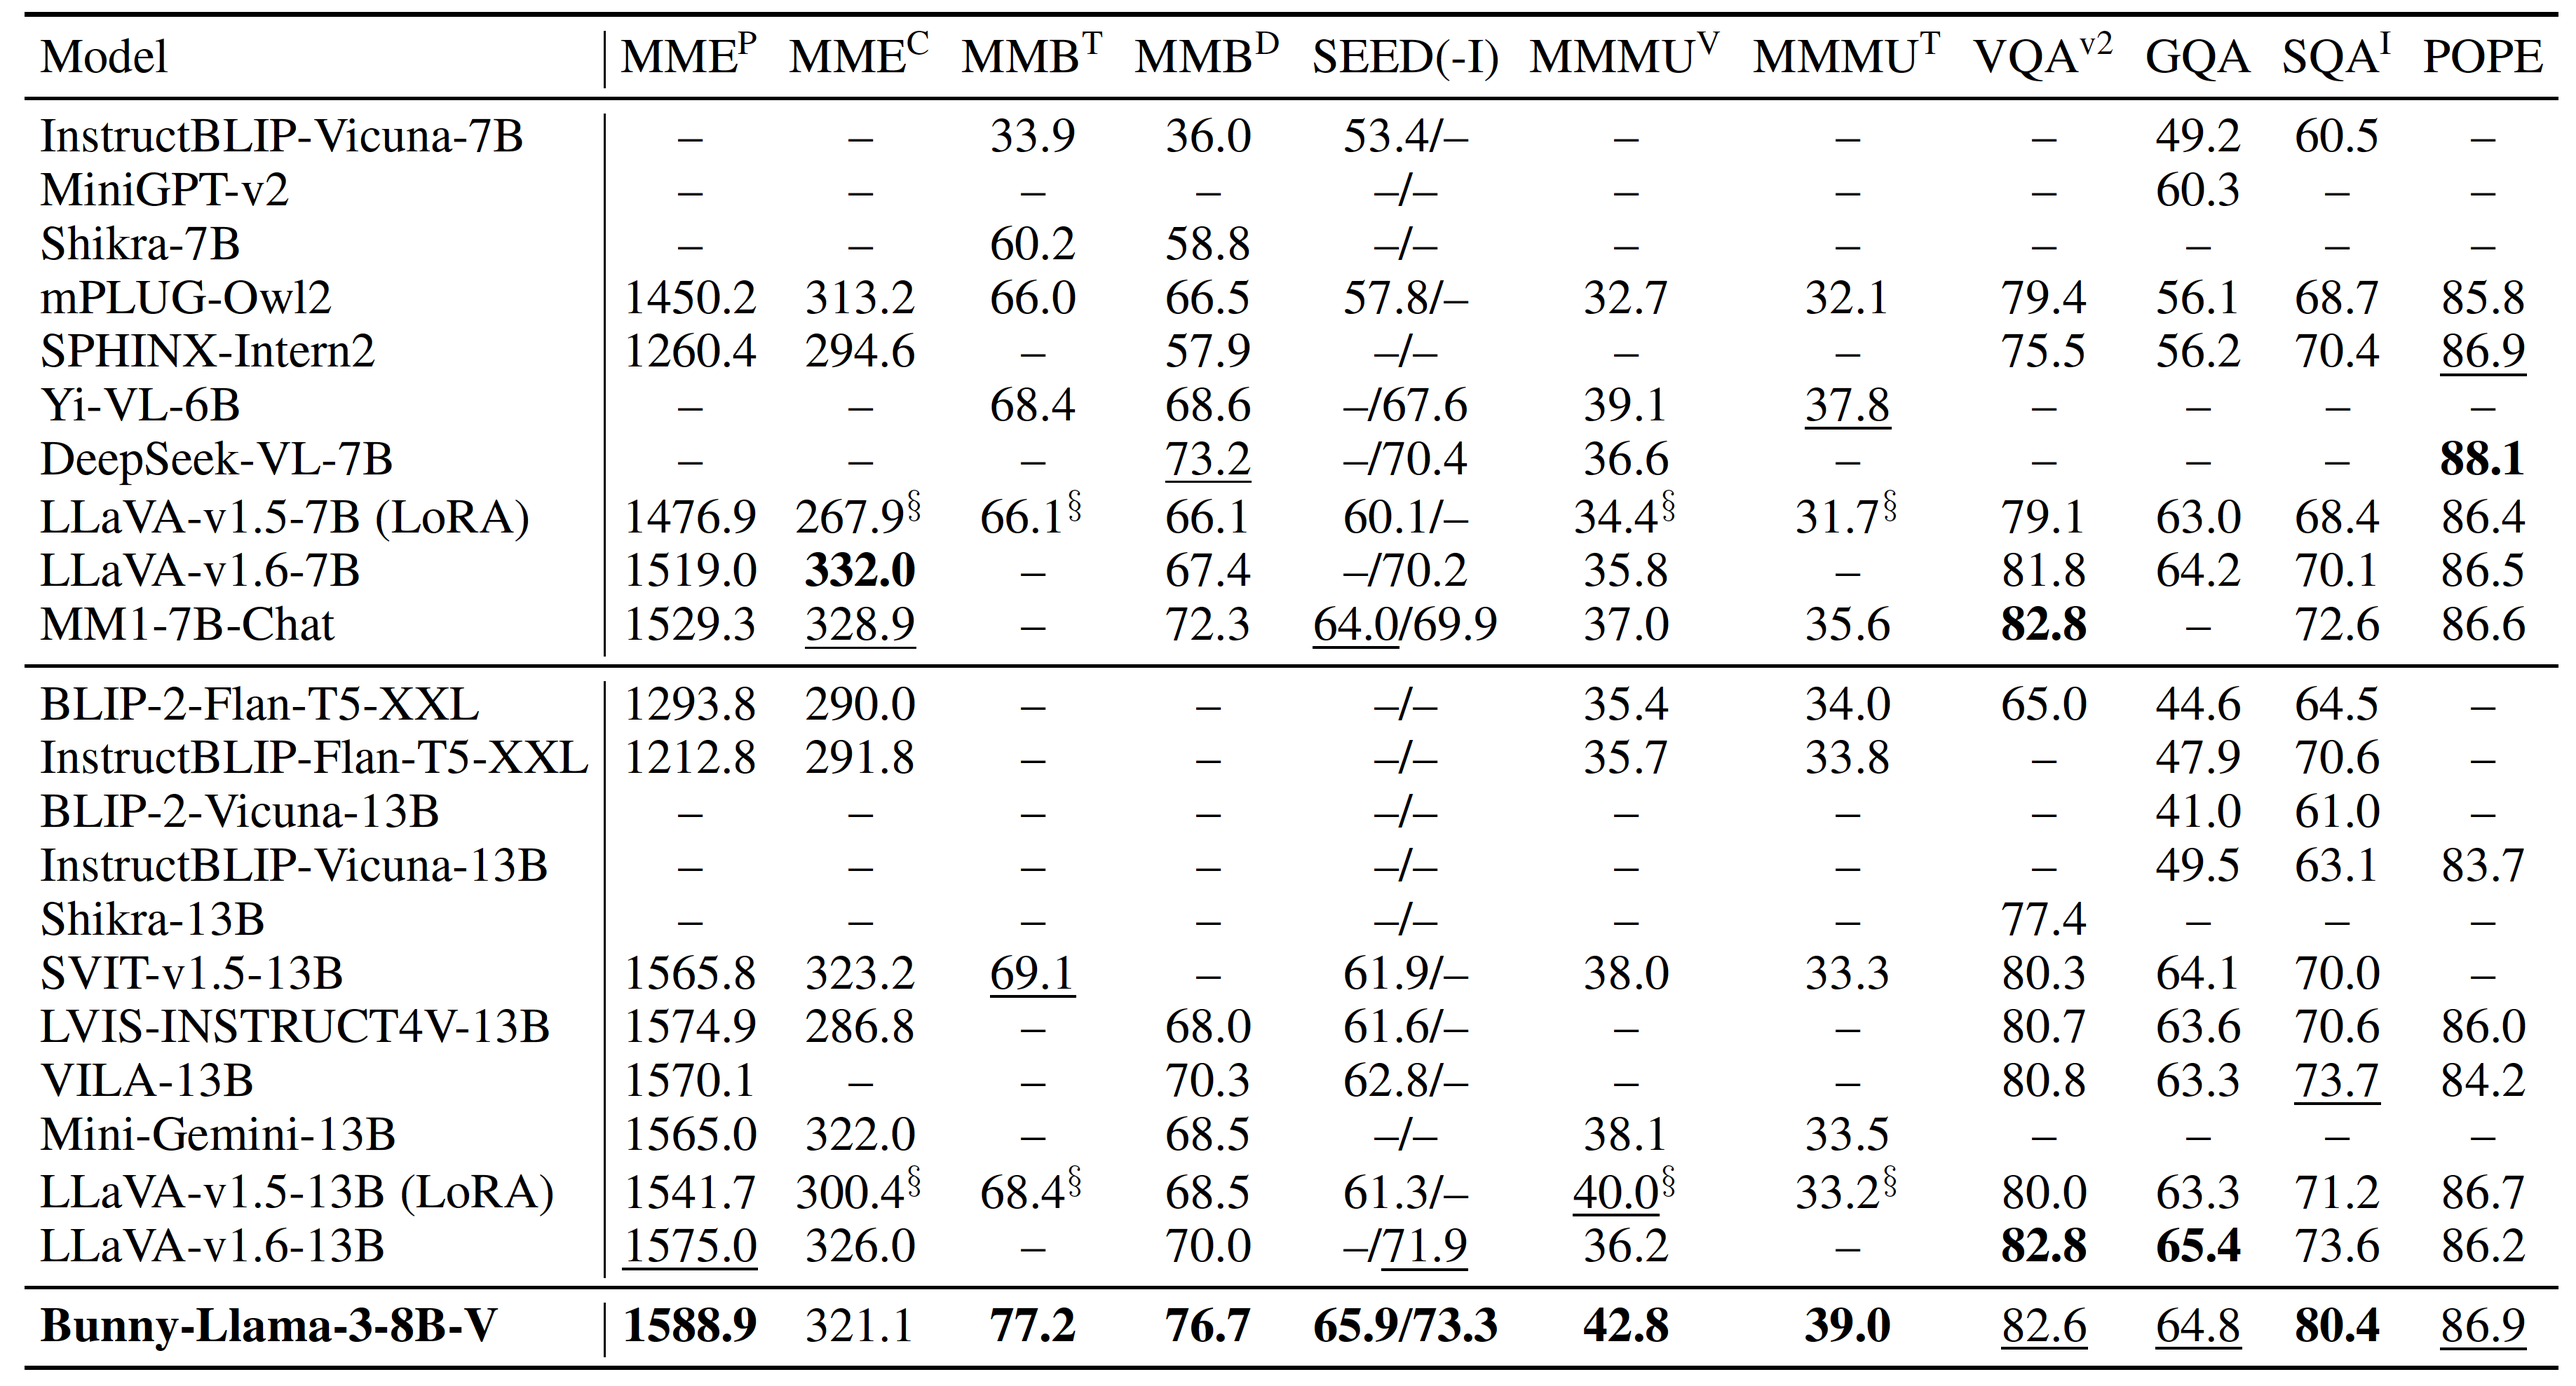
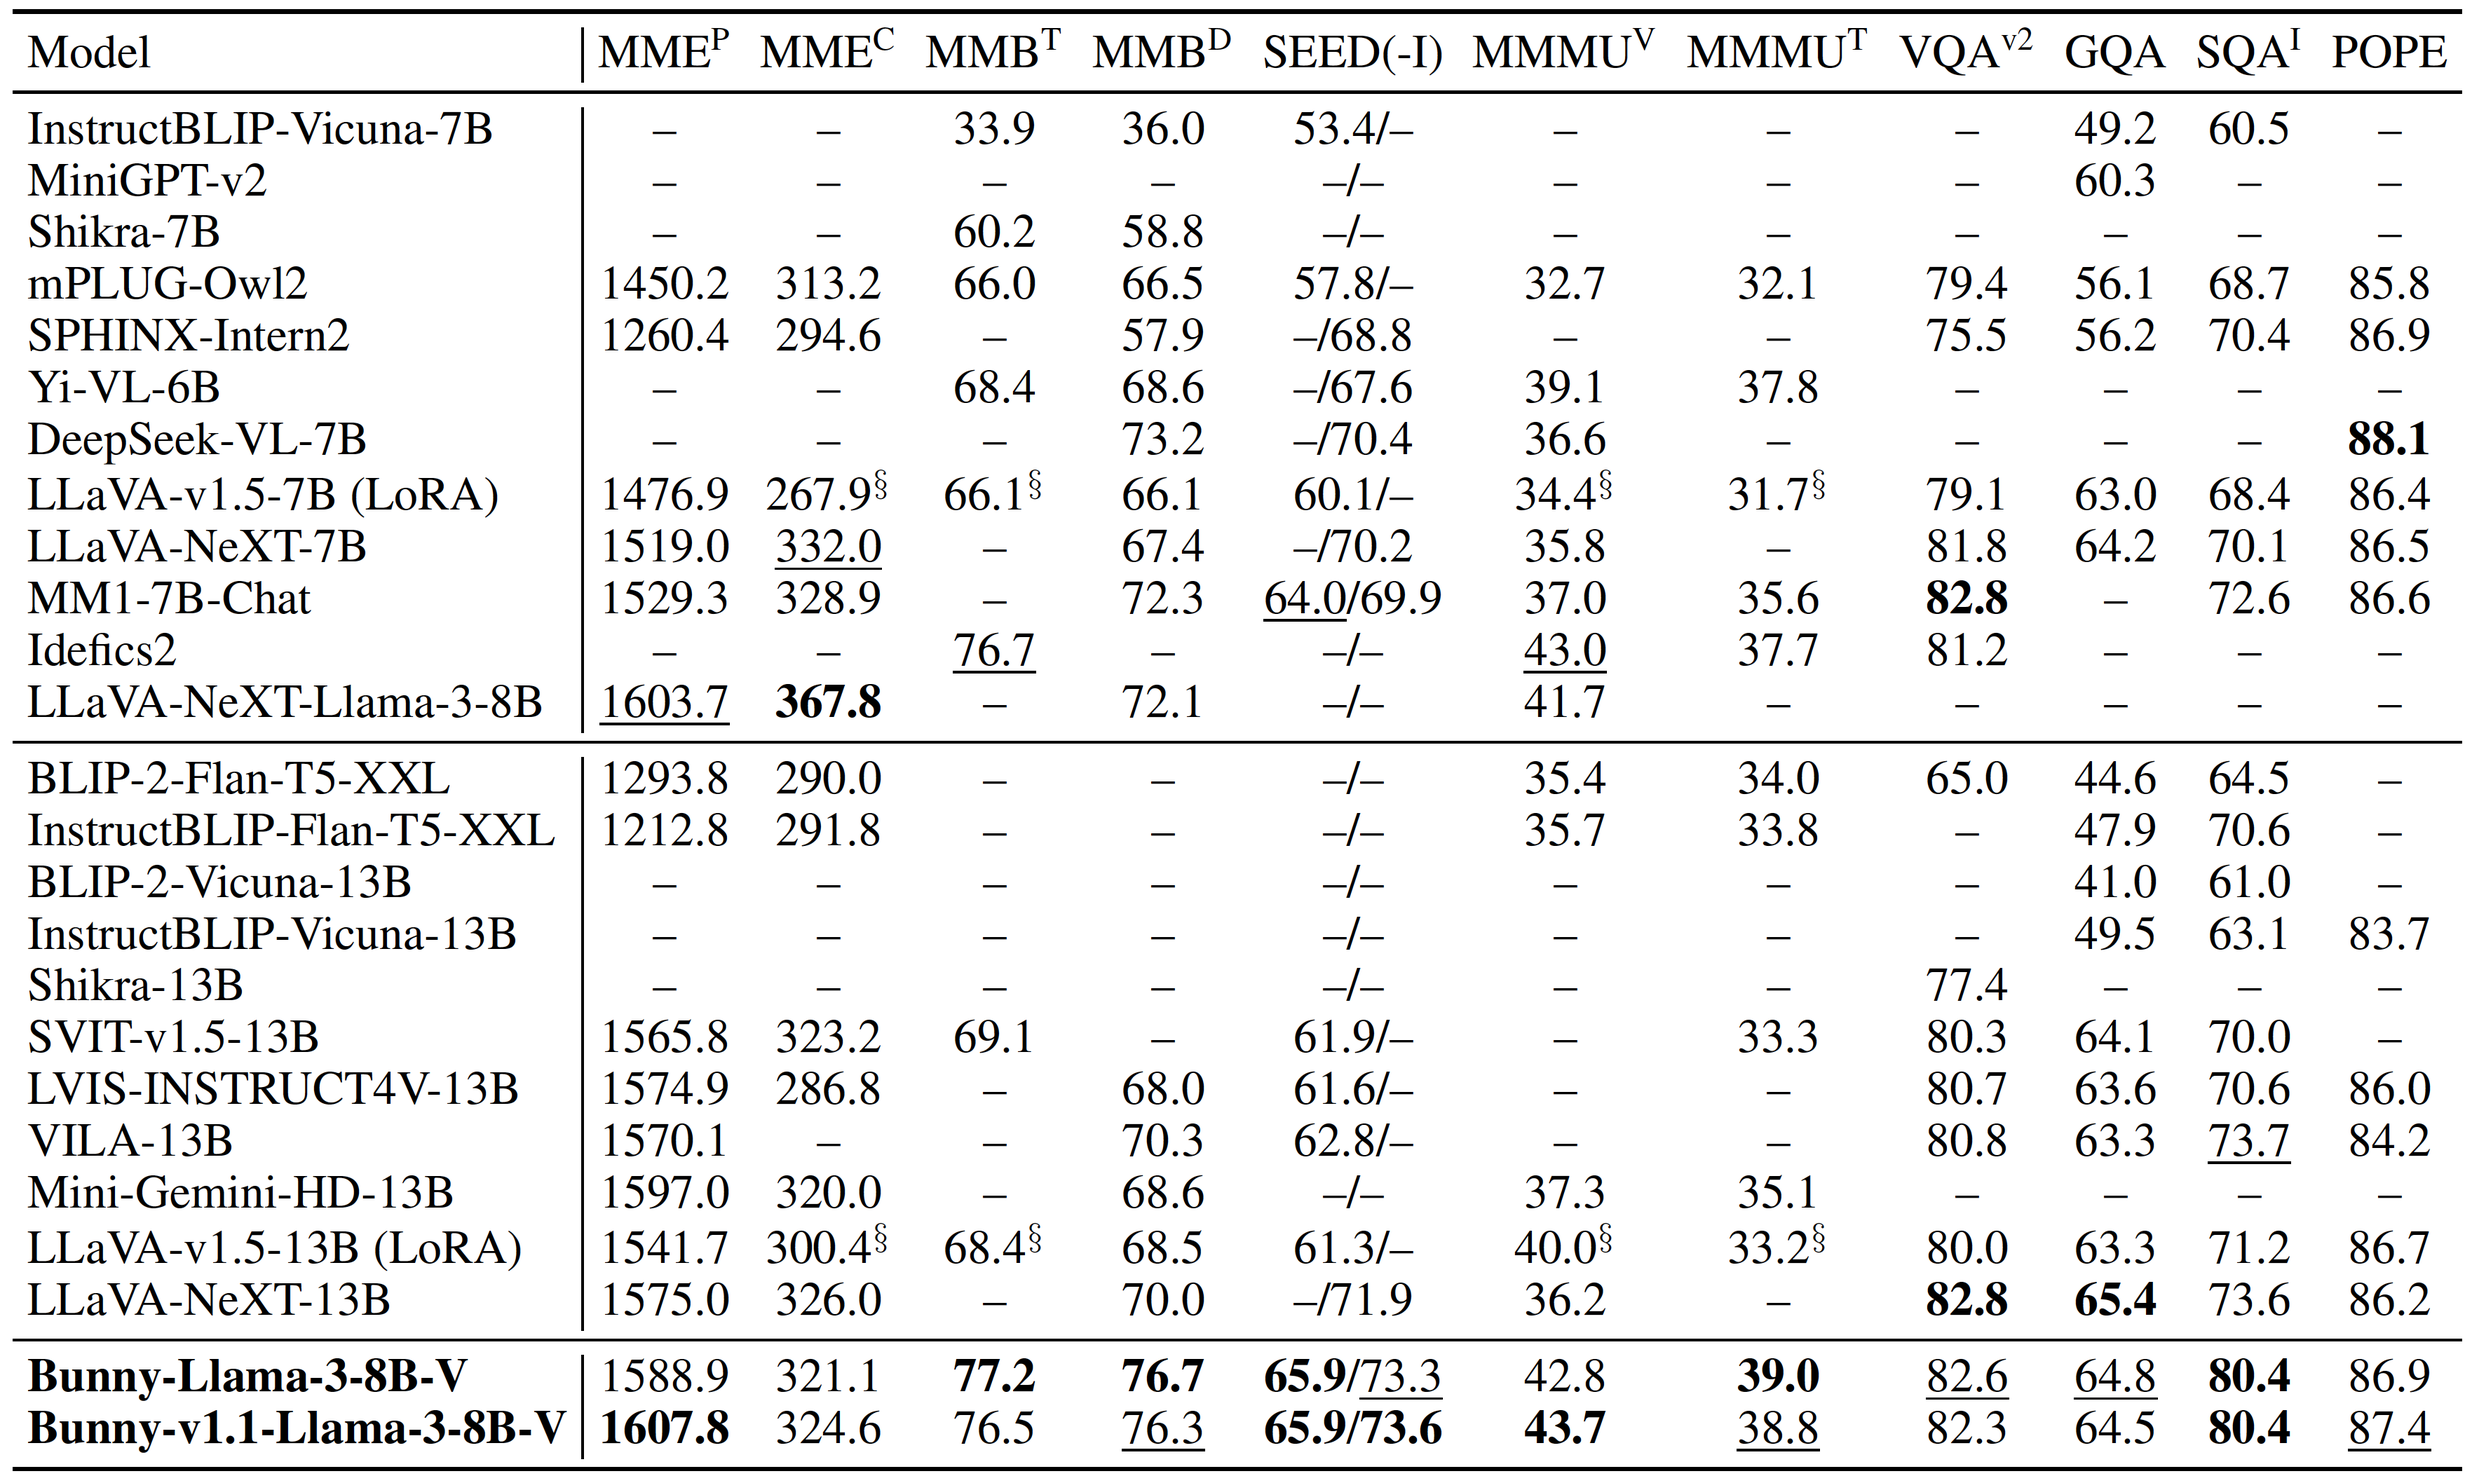
Update README of Bunny-v1.1-Llama-3-8B-V

diff --git a/README.md b/README.md
@@ -8,11 +8,11 @@
 
 **Bunny-v1.0-3B**: 🤗 [HuggingFace](https://huggingface.co/BAAI/Bunny-v1_0-3B) | 🤖 [ModelScope](https://www.modelscope.cn/models/BAAI/Bunny-v1.0-3B) | 🧠 [wisemodel](https://wisemodel.cn/models/BAAI/Bunny-v1.0-3B)
 
-**Bunny-Llama-3-8B-V**: 🤗 [HuggingFace](https://huggingface.co/BAAI/Bunny-Llama-3-8B-V) | 🤖 [ModelScope](https://www.modelscope.cn/models/BAAI/Bunny-Llama-3-8B-V) | 🧠 [wisemodel](https://wisemodel.cn/models/BAAI/Bunny-Llama-3-8B-V) | 🤗 [GGUF](https://huggingface.co/BAAI/Bunny-Llama-3-8B-V-gguf)
+**Bunny-Llama-3-8B-V**: 🤗 [v1.1](https://huggingface.co/BAAI/Bunny-v1_1-Llama-3-8B-V) | 🤗 [v1.0](https://huggingface.co/BAAI/Bunny-Llama-3-8B-V) | 🤗 [v1.0-GGUF](https://huggingface.co/BAAI/Bunny-Llama-3-8B-V-gguf)
 
 Bunny is a family of lightweight but powerful multimodal models. It offers multiple plug-and-play vision encoders, like **EVA-CLIP, SigLIP** and language backbones, including **Llama-3-8B, Phi-3-mini, Phi-1.5, StableLM-2, Qwen1.5, MiniCPM and Phi-2**. To compensate for the decrease in model size, we construct more informative training data by curated selection from a broader data source. Remarkably, our **Bunny-v1.0-3B** model built upon SigLIP and Phi-2 outperforms the state-of-the-art MLLMs, not only in comparison with models of similar size but also against larger MLLMs (7B), and even achieves performance on par with 13B models.
 
-Moreover, we are thrilled to introduce **Bunny-Llama-3-8B-V**, the pioneering vision-language model based on Llama-3, showcasing exceptional performance.
+Moreover, we are thrilled to introduce **Bunny-Llama-3-8B-V**, the pioneering vision-language model based on Llama-3, showcasing exceptional performance. The v1.1 version accepts high-resolution images up to 1152x1152.
 
 ![comparison_8B](comparison_8B.png)
 
@@ -24,17 +24,19 @@ Moreover, we are thrilled to introduce **Bunny-Llama-3-8B-V**, the pioneering vi
 
 ## News and Updates
 
+* 2024.06.01 🔥 **Bunny-v1.1-Llama-3-8B-V, supporting 1152x1152 resolution, is released!** It is built upon SigLIP and Llama-3-8B-Instruct with S$`^2`$-Wrapper. Check more details in [HuggingFace](https://huggingface.co/BAAI/Bunny-v1_1-Llama-3-8B-V)! 🐰 [Demo](http://bunny.dataoptim.org)
+
 * 2024.05.08 🔥 **Bunny-v1.1-4B, supporting 1152x1152 resolution, is released!** It is built upon SigLIP and Phi-3-Mini-4K 3.8B with S$`^2`$-Wrapper. Check more details in [HuggingFace](https://huggingface.co/BAAI/Bunny-v1_1-4B)! 🐰 [Demo](http://bunny.dataoptim.org)
 
 * 2024.05.01 🔥 **Bunny-v1.0-4B, a vision-language model based on Phi-3, is released!** It is built upon SigLIP and Phi-3-Mini-4K 3.8B. Check more details in [HuggingFace](https://huggingface.co/BAAI/Bunny-v1_0-4B)! 🤗 [GGUF](https://huggingface.co/BAAI/Bunny-v1_0-4B-gguf)
 
-* 2024.04.21 🔥 **Bunny-Llama-3-8B-V, the first vision-language model based on Llama-3, is released!** It is built upon SigLIP and Llama-3-8B-Instruct. Check more details in [HuggingFace](https://huggingface.co/BAAI/Bunny-Llama-3-8B-V), [ModelScope](https://www.modelscope.cn/models/BAAI/Bunny-Llama-3-8B-V), and [wisemodel](https://wisemodel.cn/models/BAAI/Bunny-Llama-3-8B-V)! 🐰 [Demo](http://bunny.dataoptim.org) 🤗 [GGUF](https://huggingface.co/BAAI/Bunny-Llama-3-8B-V-gguf)
+* 2024.04.21 🔥 **Bunny-Llama-3-8B-V, the first vision-language model based on Llama-3, is released!** It is built upon SigLIP and Llama-3-8B-Instruct. Check more details in [HuggingFace](https://huggingface.co/BAAI/Bunny-Llama-3-8B-V), [ModelScope](https://www.modelscope.cn/models/BAAI/Bunny-Llama-3-8B-V), and [wisemodel](https://wisemodel.cn/models/BAAI/Bunny-Llama-3-8B-V)! 🤗 [GGUF](https://huggingface.co/BAAI/Bunny-Llama-3-8B-V-gguf)
 
 * 2024.04.18 🔥 **Bunny-v1.0-3B-zh, powerful on English and Chinese, is released!** It is built upon SigLIP and MiniCPM-2B. Check more details in [HuggingFace](https://huggingface.co/BAAI/Bunny-v1_0-3B-zh), [ModelScope](https://www.modelscope.cn/models/BAAI/Bunny-v1.0-3B-zh/summary), and [wisemodel](https://wisemodel.cn/models/BAAI/Bunny-v1.0-3B-zh)! The evaluation results are in the [Model Zoo](#model-zoo). We sincerely thank Zhenwei Shao for his kind help.
 
-* 2024.03.15 🔥 **Bunny-v1.0-2B-zh, focusing on Chinese, is released!** It is built upon SigLIP and Qwen1.5-1.8B. Check more details in [HuggingFace](https://huggingface.co/BAAI/Bunny-v1_0-2B-zh), [ModelScope](https://www.modelscope.cn/models/BAAI/Bunny-v1.0-2B-zh/summary), and [wisemodel](https://wisemodel.cn/models/BAAI/Bunny-v1.0-2B-zh)! The evaluation results are in the [Model Zoo](#model-zoo).
+* 2024.03.15 **Bunny-v1.0-2B-zh, focusing on Chinese, is released!** It is built upon SigLIP and Qwen1.5-1.8B. Check more details in [HuggingFace](https://huggingface.co/BAAI/Bunny-v1_0-2B-zh), [ModelScope](https://www.modelscope.cn/models/BAAI/Bunny-v1.0-2B-zh/summary), and [wisemodel](https://wisemodel.cn/models/BAAI/Bunny-v1.0-2B-zh)! The evaluation results are in the [Model Zoo](#model-zoo).
 
-* 2024.03.06 🔥 **Bunny training data is released!** Check more details about Bunny-v1.0-data in [HuggingFace](https://huggingface.co/datasets/BoyaWu10/Bunny-v1_0-data) or [ModelScope](https://www.modelscope.cn/datasets/BoyaWu10/Bunny-v1.0-data)!
+* 2024.03.06 **Bunny training data is released!** Check more details about Bunny-v1.0-data in [HuggingFace](https://huggingface.co/datasets/BoyaWu10/Bunny-v1_0-data) or [ModelScope](https://www.modelscope.cn/datasets/BoyaWu10/Bunny-v1.0-data)!
 * 2024.02.20 **Bunny technical report is ready!** Check more details about Bunny [here](https://arxiv.org/abs/2402.11530)!
 * 2024.02.07 **Bunny is released!** Bunny-v1.0-3B built upon SigLIP and Phi-2 outperforms the state-of-the-art MLLMs, not only in comparison with models of similar size but also against larger MLLMs (7B), and even achieves performance on par with LLaVA-13B!
 
@@ -42,7 +44,7 @@ Moreover, we are thrilled to introduce **Bunny-Llama-3-8B-V**, the pioneering vi
 
 ### HuggingFace transformers
 
-Here we show a code snippet to show you how to use [Bunny-Llama-3-8B-V](https://huggingface.co/BAAI/Bunny-Llama-3-8B-V), [Bunny-v1.1-4B](https://huggingface.co/BAAI/Bunny-v1_1-4B), [Bunny-v1.0-3B](https://huggingface.co/BAAI/Bunny-v1_0-3B) and so on with HuggingFace transformers.
+Here we show a code snippet to show you how to use [Bunny-v1.1-Llama-3-8B-V](https://huggingface.co/BAAI/Bunny-v1_1-Llama-3-8B-V), [Bunny-v1.1-4B](https://huggingface.co/BAAI/Bunny-v1_1-4B), [Bunny-v1.0-3B](https://huggingface.co/BAAI/Bunny-v1_0-3B) and so on with HuggingFace transformers.
 
 Before running the snippet, you need to install the following dependencies:
 
@@ -70,8 +72,8 @@ warnings.filterwarnings('ignore')
 device = 'cuda'  # or cpu
 torch.set_default_device(device)
 
-model_name = 'BAAI/Bunny-Llama-3-8B-V' # or 'BAAI/Bunny-v1_1-4B' or 'BAAI/Bunny-v1_0-4B' or 'BAAI/Bunny-v1_0-3B' or 'BAAI/Bunny-v1_0-3B-zh' or 'BAAI/Bunny-v1_0-2B-zh'
-offset_bos = 1 # for Bunny-Llama-3-8B-V, Bunny-v1_1-4B, Bunny-v1_0-4B and Bunny-v1_0-3B-zh
+model_name = 'BAAI/Bunny-v1_1-Llama-3-8B-V' # or 'BAAI/Bunny-Llama-3-8B-V' or 'BAAI/Bunny-v1_1-4B' or 'BAAI/Bunny-v1_0-4B' or 'BAAI/Bunny-v1_0-3B' or 'BAAI/Bunny-v1_0-3B-zh' or 'BAAI/Bunny-v1_0-2B-zh'
+offset_bos = 1 # for Bunny-v1_1-Llama-3-8B-V, Bunny-Llama-3-8B-V, Bunny-v1_1-4B, Bunny-v1_0-4B and Bunny-v1_0-3B-zh
 # offset_bos = 0 for Bunny-v1_0-3B and Bunny-v1_0-2B-zh
 
 # create model
@@ -90,7 +92,7 @@ text = f"A chat between a curious user and an artificial intelligence assistant.
 text_chunks = [tokenizer(chunk).input_ids for chunk in text.split('<image>')]
 input_ids = torch.tensor(text_chunks[0] + [-200] + text_chunks[1][offset_bos:], dtype=torch.long).unsqueeze(0).to(device)
 
-# image, sample images can be found in https://huggingface.co/BAAI/Bunny-Llama-3-8B-V/tree/main/images
+# image, sample images can be found in https://huggingface.co/BAAI/Bunny-v1_1-Llama-3-8B-V/tree/main/images
 image = Image.open('example_2.png')
 image_tensor = model.process_images([image], model.config).to(dtype=model.dtype, device=device)
 
@@ -194,7 +196,8 @@ print(tokenizer.decode(output_ids[input_ids.shape[1]:], skip_special_tokens=True
 | **[Bunny-v1.0-3B/bunny-phi-2-siglip](https://huggingface.co/BAAI/Bunny-v1_0-3B)** |      1488.8      |      289.3      |       69.2/68.6       |       -       | 62.5/- | 38.2/33.0 | 79.8 |       62.5       |       70.9       | 86.8 |
 | [Bunny-v1.0-4B](https://huggingface.co/BAAI/Bunny-v1_0-4B) |      1495.2      |      338.9      |       74.0/73.5       |       -       | 64.5/72.1 | 40.1/39.1 | 81.5 |       63.5       |       75.1       | 86.7 |
 | **[Bunny-v1.1-4B](https://huggingface.co/BAAI/Bunny-v1_1-4B)** |      1503.9      |      362.9      |       74.1/74.1       |       66.3/64.8       | 64.6/71.7 | 40.2/38.8 | 81.7 |       63.4       |       76.3       | 87.0 |
-| **[Bunny-Llama-3-8B-V](https://huggingface.co/BAAI/Bunny-Llama-3-8B-V)** |      1588.9      |      321.1      |       77.2/76.7       |       73.8/72.3       | 65.9/73.3 | 42.8/39.0 | 82.6 |       64.8       |       80.4       | 86.9 |
+| [Bunny-Llama-3-8B-V](https://huggingface.co/BAAI/Bunny-Llama-3-8B-V) |      1588.9      |      321.1      |       77.2/76.7       |       73.8/72.3       | 65.9/73.3 | 42.8/39.0 | 82.6 |       64.8       |       80.4       | 86.9 |
+| **[Bunny-1.1-Llama-3-8B-V](https://huggingface.co/BAAI/Bunny-v1_1-Llama-3-8B-V)** |      1607.8      |      324.6      |       76.5/76.3       |       73.4/73.5       | 65.9/73.6 | 43.7/38.8 | 82.3 |       64.5       |       80.4       | 87.4 |
 
 The small model with the best performance is denoted as Bunny-v1.0-3B or bunny-phi-2-siglip, whose merged weights can be found [here](https://huggingface.co/BAAI/Bunny-v1_0-3B) and the LoRA weights can be found [here](https://huggingface.co/BAAI/bunny-phi-2-siglip-lora).
 
@@ -214,8 +217,8 @@ We also provide two models that focus on Chinese QA ability, namely Bunny-v1.0-3
 | **[bunny-phi-2-siglip-lora](https://huggingface.co/BAAI/bunny-phi-2-siglip-lora)** | [siglip-so400m-patch14-384](https://huggingface.co/google/siglip-so400m-patch14-384) | [microsoft/phi-2](https://huggingface.co/microsoft/phi-2)    |    5e-4     | [bunny-pretrain-phi-2-siglip](https://huggingface.co/BAAI/bunny-pretrain-phi-2-siglip) |
 | Bunny-v1.0-4B                                            | [siglip-so400m-patch14-384](https://huggingface.co/google/siglip-so400m-patch14-384) | [microsoft/Phi-3-mini-4k-instruct](https://huggingface.co/microsoft/Phi-3-mini-4k-instruct) |    1e-3     | [bunny-pretrain-phi-3-siglip](https://huggingface.co/BoyaWu10/bunny-pretrain-phi-3-siglip) |
 | **Bunny-v1.1-4B**                                            | [siglip-so400m-patch14-384](https://huggingface.co/google/siglip-so400m-patch14-384) | [microsoft/Phi-3-mini-4k-instruct](https://huggingface.co/microsoft/Phi-3-mini-4k-instruct) |    1e-3     | [bunny-pretrain-phi-3-siglip-s2](https://huggingface.co/BoyaWu10/bunny-pretrain-phi-3-siglip-s2) |
-| **Bunny-Llama-3-8B-V**                                       | [siglip-so400m-patch14-384](https://huggingface.co/google/siglip-so400m-patch14-384) | [meta-llama/Meta-Llama-3-8B-Instruct](https://huggingface.co/meta-llama/Meta-Llama-3-8B-Instruct) |    1e-3     | [bunny-pretrain-llama3-8b-siglip](https://huggingface.co/BoyaWu10/bunny-pretrain-llama3-8b-siglip) |
-
+| Bunny-Llama-3-8B-V                                       | [siglip-so400m-patch14-384](https://huggingface.co/google/siglip-so400m-patch14-384) | [meta-llama/Meta-Llama-3-8B-Instruct](https://huggingface.co/meta-llama/Meta-Llama-3-8B-Instruct) |    1e-3     | [bunny-pretrain-llama3-8b-siglip](https://huggingface.co/BoyaWu10/bunny-pretrain-llama3-8b-siglip) |
+| **Bunny-v1.1-Llama-3-8B-V**                                       | [siglip-so400m-patch14-384](https://huggingface.co/google/siglip-so400m-patch14-384) | [meta-llama/Meta-Llama-3-8B-Instruct](https://huggingface.co/meta-llama/Meta-Llama-3-8B-Instruct) |    1e-3     | [bunny-pretrain-llama3-8b-siglip-s2](https://huggingface.co/BoyaWu10/bunny-pretrain-llama3-8b-siglip-s2) |
 
 ## Install
 Either start from our docker or install locally on your own. 
